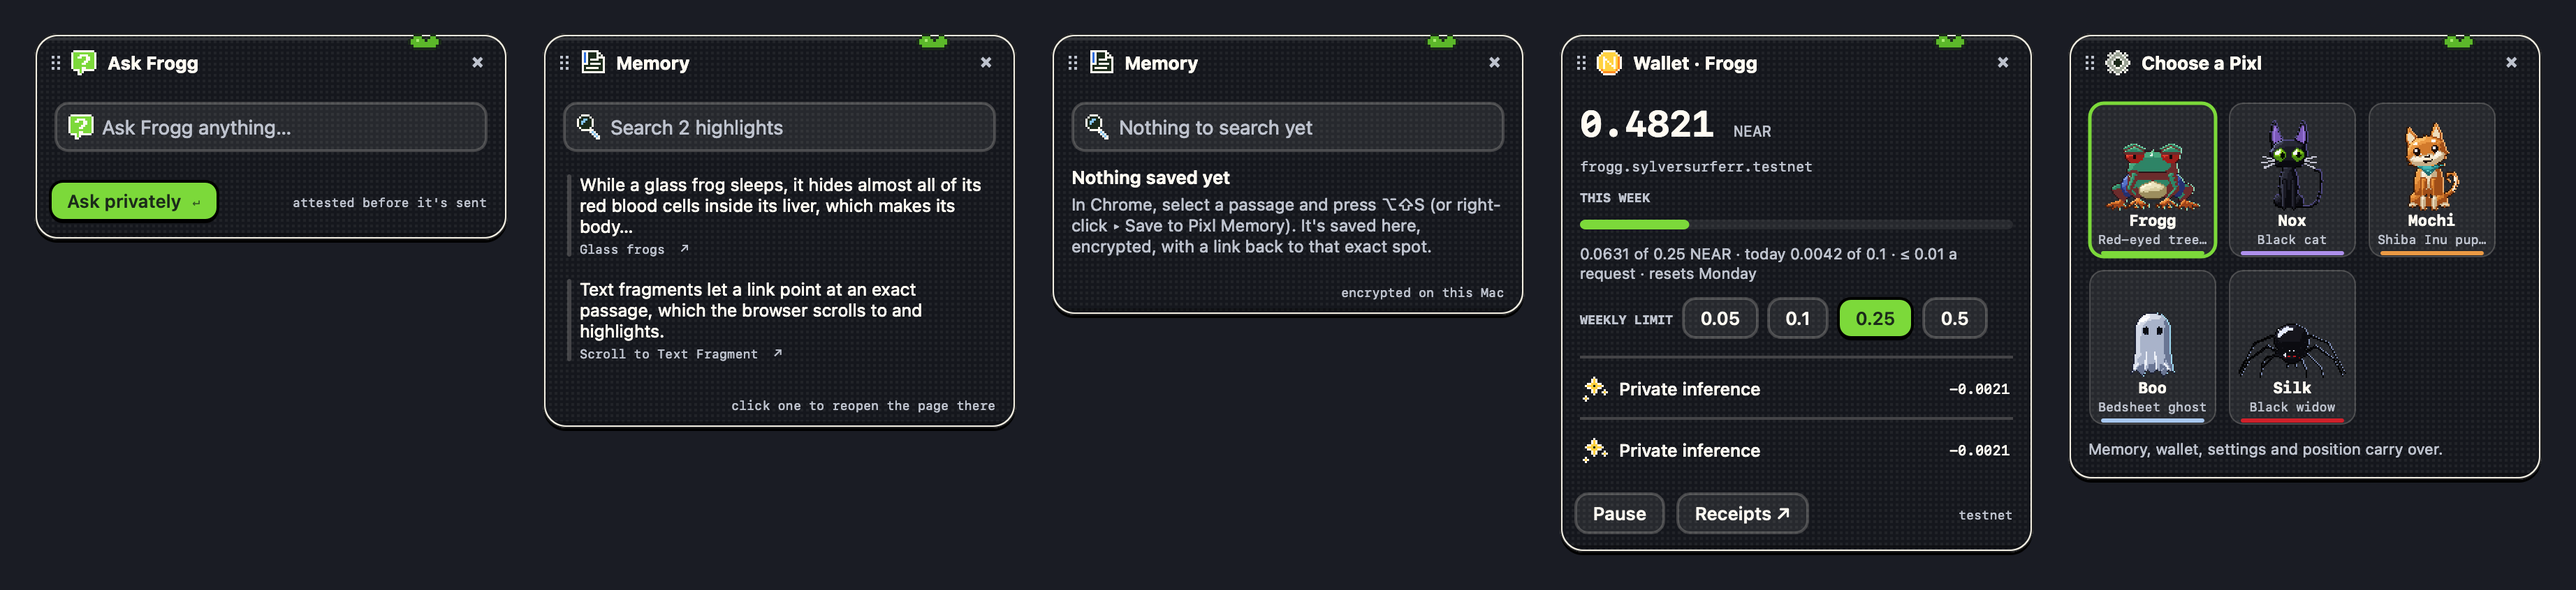
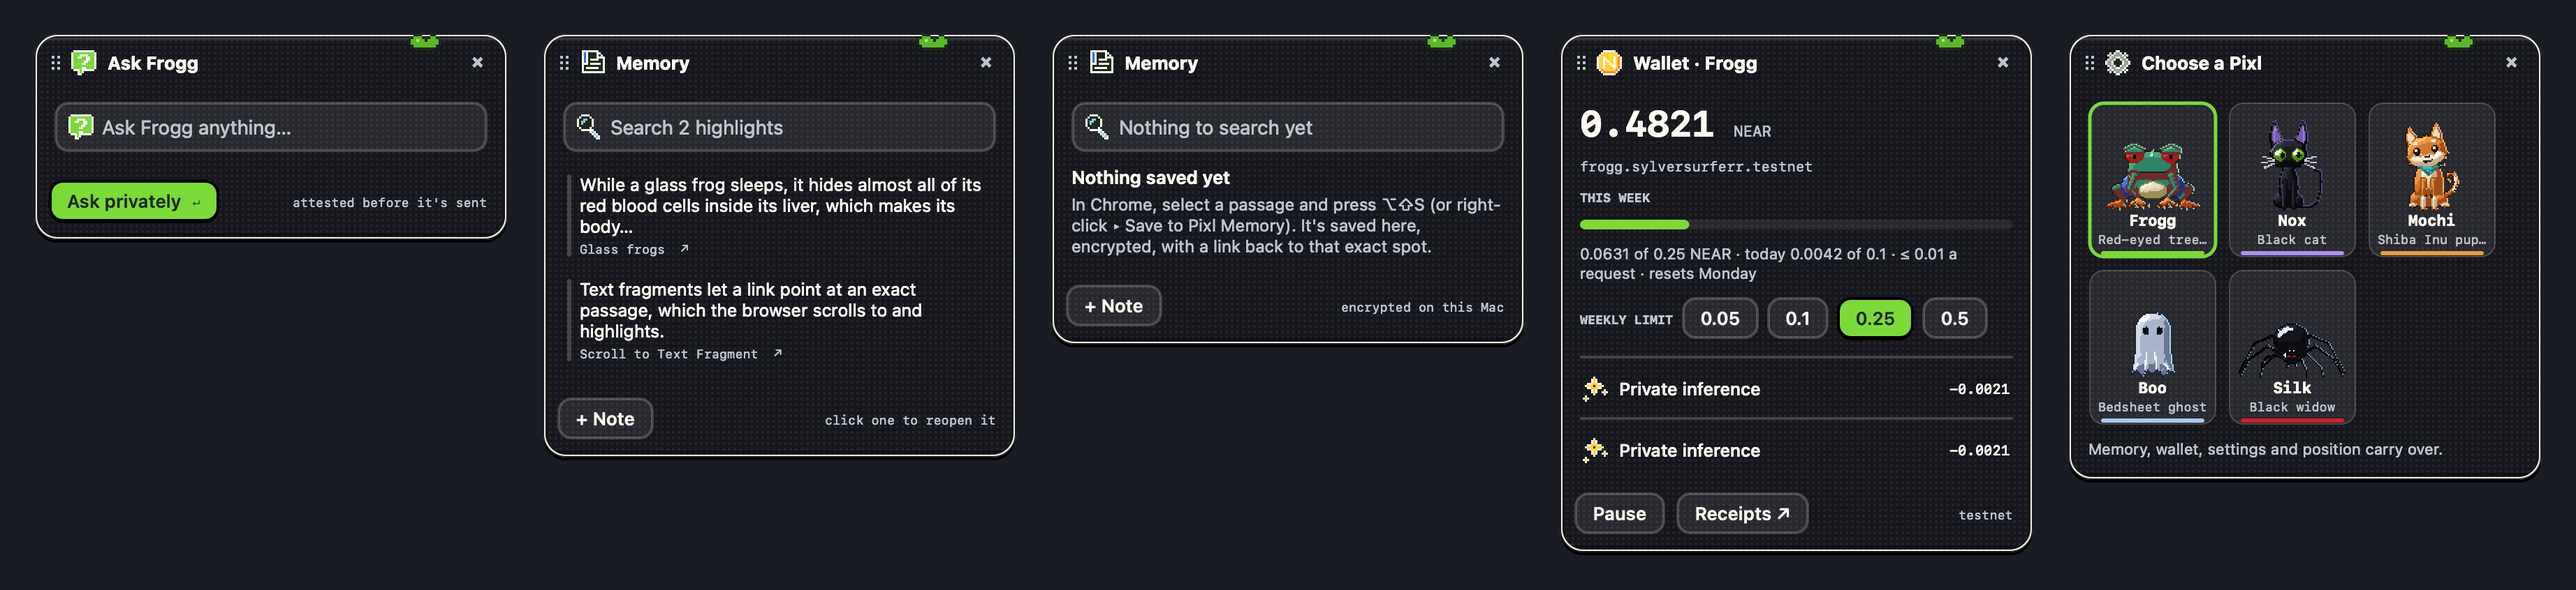
Per-Pixl menus: Silk's bubbles hang on silk threads, Boo's trail wisps
menuStyle in pixl.json (data, not code); drawn behind the bubbles from the head, fading
with each bubble's open/close. Lineup screenshot updated.

Claude-Session: https://claude.ai/code/session_01FbPmycRw98T8vrGcqPeiEQ

Changed region(s): [[0.4054, 0.461, 0.5925, 0.6147], [0.2183, 0.6761, 0.4054, 0.7991]]

diff --git a/macos/PixlMemory/Sources/PixlMemoryKit/OptionBubblesView.swift b/macos/PixlMemory/Sources/PixlMemoryKit/OptionBubblesView.swift
@@ -97,6 +97,40 @@ public final class OptionBubblesView: NSView {
         advance(to: t)
     }
 
+    /// The Pixl's menu style ("silk", "wisp"): drawn behind the bubbles, from the head to each.
+    public var style: String? { didSet { needsDisplay = true } }
+    public var styleColor: NSColor = NSColor(srgbRed: 0.72, green: 0.75, blue: 0.80, alpha: 1)
+
+    public override func draw(_ dirtyRect: NSRect) {
+        guard let style else { return }
+        for b in buttons where b.alphaValue > 0.02 {
+            let end = CGPoint(x: b.frame.midX, y: b.frame.minY + 3)
+            switch style {
+            case "silk":
+                // a thread with a little sag, from the Pixl to the top of each bubble
+                let p = NSBezierPath()
+                p.move(to: head)
+                let mid = CGPoint(x: (head.x + end.x) / 2, y: (head.y + end.y) / 2 + 7)
+                p.curve(to: end, controlPoint1: mid, controlPoint2: mid)
+                p.lineWidth = 1
+                styleColor.withAlphaComponent(0.9 * b.alphaValue).setStroke()
+                p.stroke()
+                styleColor.withAlphaComponent(b.alphaValue).setFill()
+                NSRect(x: end.x - 1, y: end.y - 2, width: 2, height: 2).fill()
+            case "wisp":
+                // a dithered trail of 2 px dots, thinning out toward the bubble
+                let d = hypot(end.x - head.x, end.y - head.y), n = max(Int(d / 5), 1)
+                for k in 1..<n where k % 2 == 1 || k < n / 3 {
+                    let f = CGFloat(k) / CGFloat(n)
+                    styleColor.withAlphaComponent((0.75 - 0.45 * f) * b.alphaValue).setFill()
+                    let x = head.x + (end.x - head.x) * f, y = head.y + (end.y - head.y) * f + sin(f * .pi) * 6
+                    NSRect(x: x.rounded() - 1, y: y.rounded() - 1, width: 2, height: 2).fill()
+                }
+            default: break
+            }
+        }
+    }
+
     /// Steps every animation to time `t`; returns true while anything is still moving.
     @discardableResult
     public func advance(to t: TimeInterval) -> Bool {
@@ -120,6 +154,7 @@ public final class OptionBubblesView: NSView {
             if !alive { r.removeFromSuperview() }
             return !alive
         }
+        if style != nil { needsDisplay = true }
         switch phase {
         case .opening(let t0) where t - t0 >= BubbleMenuModel.openDuration(count: n): phase = .open
         case .closing(let t0) where t - t0 >= BubbleMenuModel.closeDuration(count: n): phase = .closed

diff --git a/macos/PixlMemory/Sources/PixlSnapshots/main.swift b/macos/PixlMemory/Sources/PixlSnapshots/main.swift
@@ -234,6 +234,8 @@ func run() throws {
             let centers = BubbleMenuModel.arc(count: slots.count, head: head, radius: BubbleMenuModel.radius(scale: 2), direction: .up)
             let v = OptionBubblesView(frame: scene.bounds, slots: slots, head: head, centers: centers, look: icon, labelLook: look)
             v.accent = { let c = RGB(hex: skin.ui.accent); return NSColor(srgbRed: c.r, green: c.g, blue: c.b, alpha: 1) }()
+            v.style = skin.ui.menuStyle
+            if skin.ui.menuStyle == "wisp" { v.styleColor = v.accent }
             v.open(at: 0); v.advance(to: 2); v.setFocus(0)
             for k in 1...60 { v.advance(to: 2 + Double(k) / 60) }
             scene.addSubview(v)

diff --git a/macos/PixlMemory/Sources/PixlMemory/BubbleMenu.swift b/macos/PixlMemory/Sources/PixlMemory/BubbleMenu.swift
@@ -88,6 +88,8 @@ final class BubbleMenu {
         let v = OptionBubblesView(frame: NSRect(origin: .zero, size: box.size), slots: slots, head: local(head),
                                   centers: placement.centers.map(local), look: iconLook, labelLook: labelLook)
         v.accent = accent
+        v.style = ui.menuStyle  // Silk's bubbles hang on threads, Boo's trail wisps
+        if ui.menuStyle == "wisp" { v.styleColor = accent }
         v.onSelect = { [weak self] slot in self?.selected(slot) }
         v.onCancel = { [weak self] in self?.close(reason: "esc") }
         let p = panel ?? KeyPanel(size: box.size)

diff --git a/PixlzCore/Sources/PixlzCore/Manifest.swift b/PixlzCore/Sources/PixlzCore/Manifest.swift
@@ -103,6 +103,9 @@ public struct PixlUI: Codable, Equatable, Sendable {
     public var detail: String?
     /// The one pixel detail its menus and bubbles carry (C10 per-pet theming).
     public var decal: PixlDecal?
+    /// How the option bubbles hang from the Pixl: "silk" (threads, the spider), "wisp" (a
+    /// dithered trail, the ghost), or nil (they just puff out).
+    public var menuStyle: String?
 
     public init(accent: String, menuFace: String, glassBody: Bool, signature: String, askPlaceholder: String, personality: String,
                 detail: String? = nil, decal: PixlDecal? = nil) {

diff --git a/macos/PixlMemory/Sources/PixlMemoryKit/PixlSpriteData.swift b/macos/PixlMemory/Sources/PixlMemoryKit/PixlSpriteData.swift
@@ -589,7 +589,8 @@ let pixlManifestJSON: [String: String] = [
         "bottom": -6,
         "left": 18
       }
-    }
+    },
+    "menuStyle": "wisp"
   }
 }
 """##,
@@ -740,7 +741,8 @@ let pixlManifestJSON: [String: String] = [
         "top": -24,
         "right": 28
       }
-    }
+    },
+    "menuStyle": "silk"
   }
 }
 """##,
